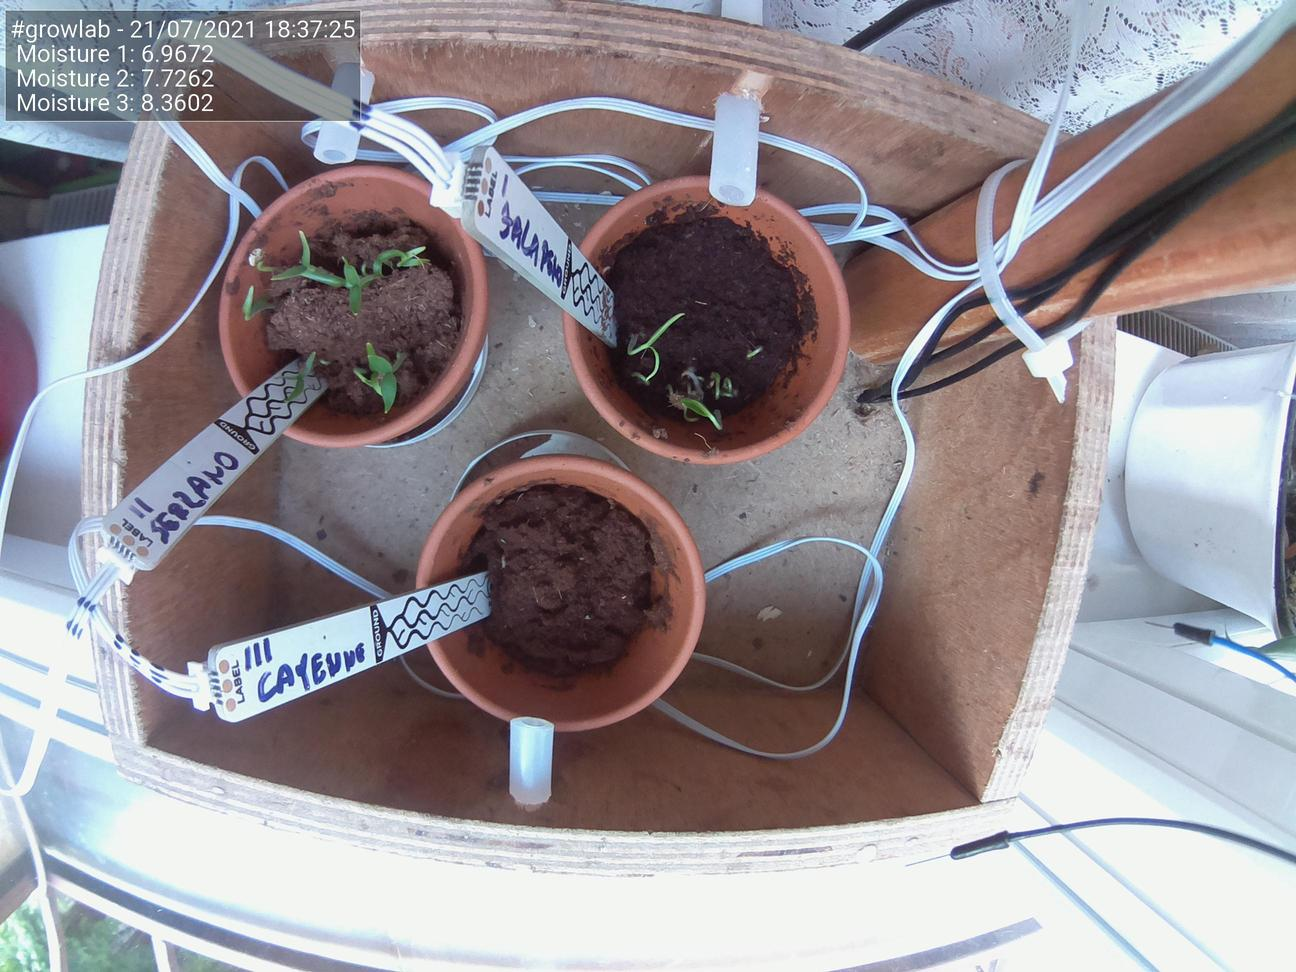
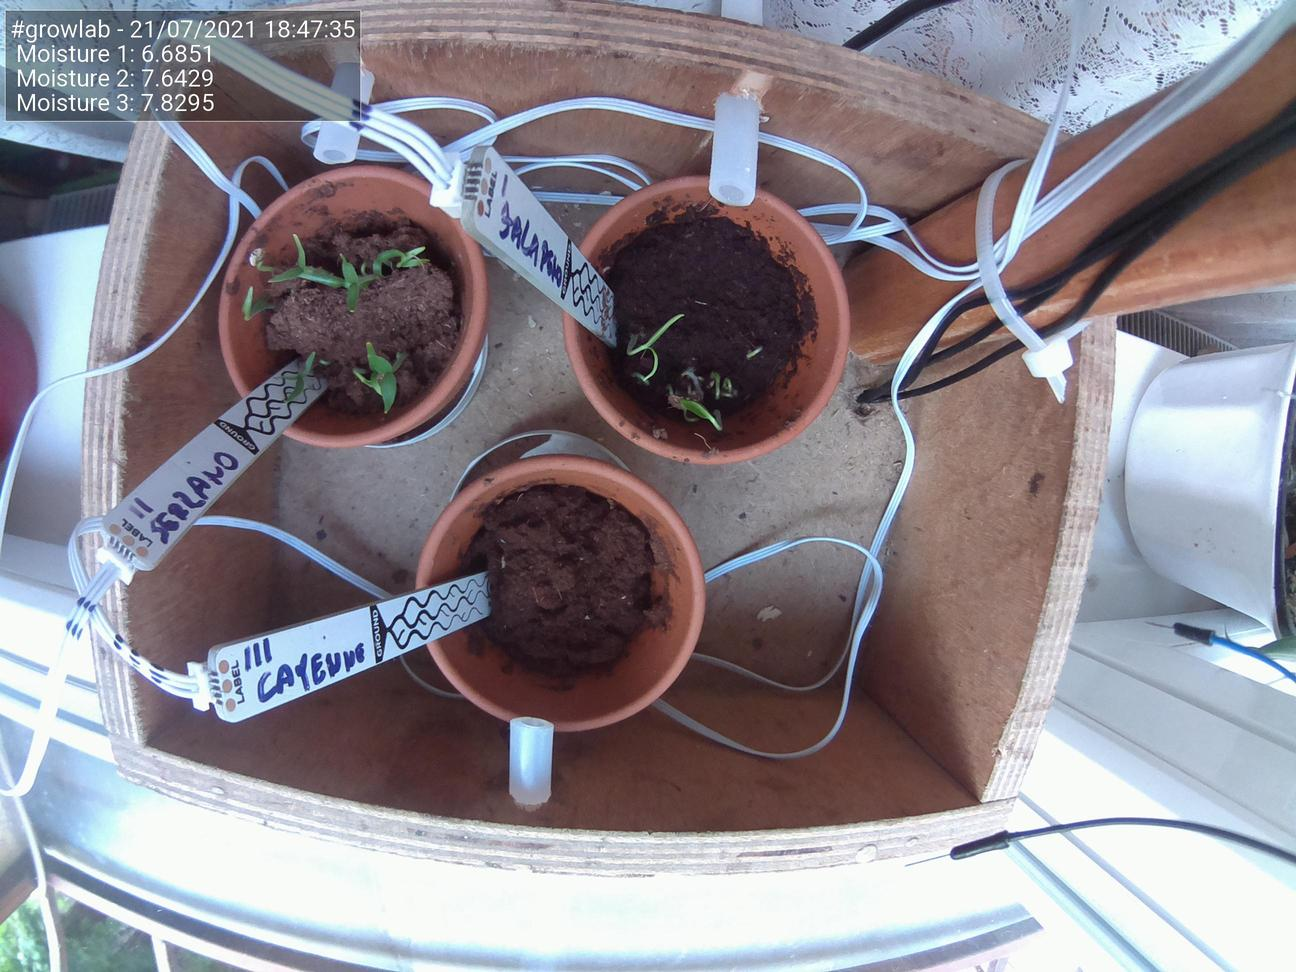
Update images at Wed 21 Jul 18:47:41 BST 2021

diff --git a/docs/index.html b/docs/index.html
@@ -51,25 +51,25 @@
                                 <td>Date</td>
                                 <td>21/07/2021</td>
                                 <td>Time</td>
-                                <td>18:37:25</td>
+                                <td>18:47:35</td>
                             </tr>
                             <tr>
                                 <td>Temperature</td>
                                 <td>N/A</td>
                                 <td>Moisture 1</td>
-                                <td>6.9672</td>
+                                <td>6.6851</td>
                             </tr>
                             <tr>
                                 <td>Humidity</td>
                                 <td>N/A</td>
                                 <td>Moisture 2</td>
-                                <td>7.7262</td>
+                                <td>7.6429</td>
                             </tr>
                             <tr>
                                 <td>Pressure</td>
                                 <td>N/A</td>
                                 <td>Moisture 3</td>
-                                <td>8.3602</td>
+                                <td>7.8295</td>
                             </tr>
                         </tbody>
                     </table>
@@ -77,7 +77,7 @@
 
                 <h5>Latest image</h5>
                 <div style="width: 85%;">
-                            <img class="figure-img img-fluid rounded" src="./preview.jpg?uid=1626889051.2617092">
+                            <img class="figure-img img-fluid rounded" src="./preview.jpg?uid=1626889661.3948455">
                 </div>
             </div>
         </div>
